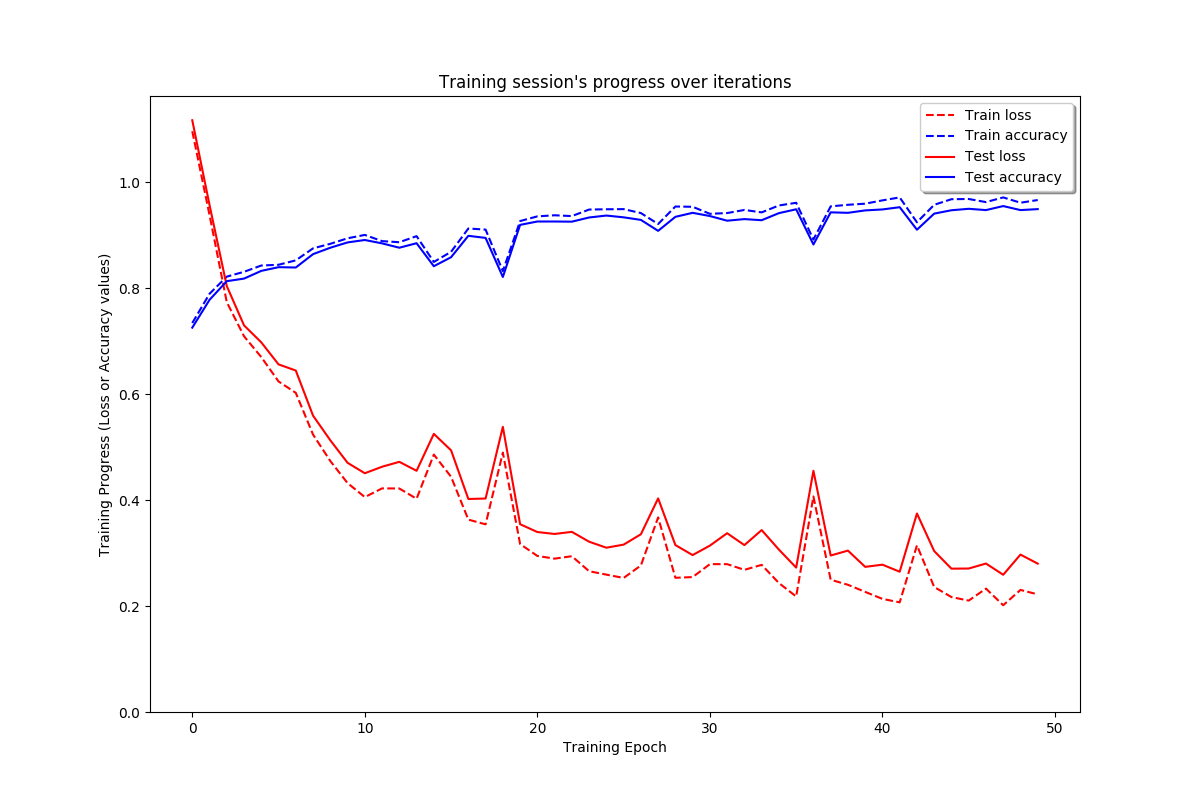
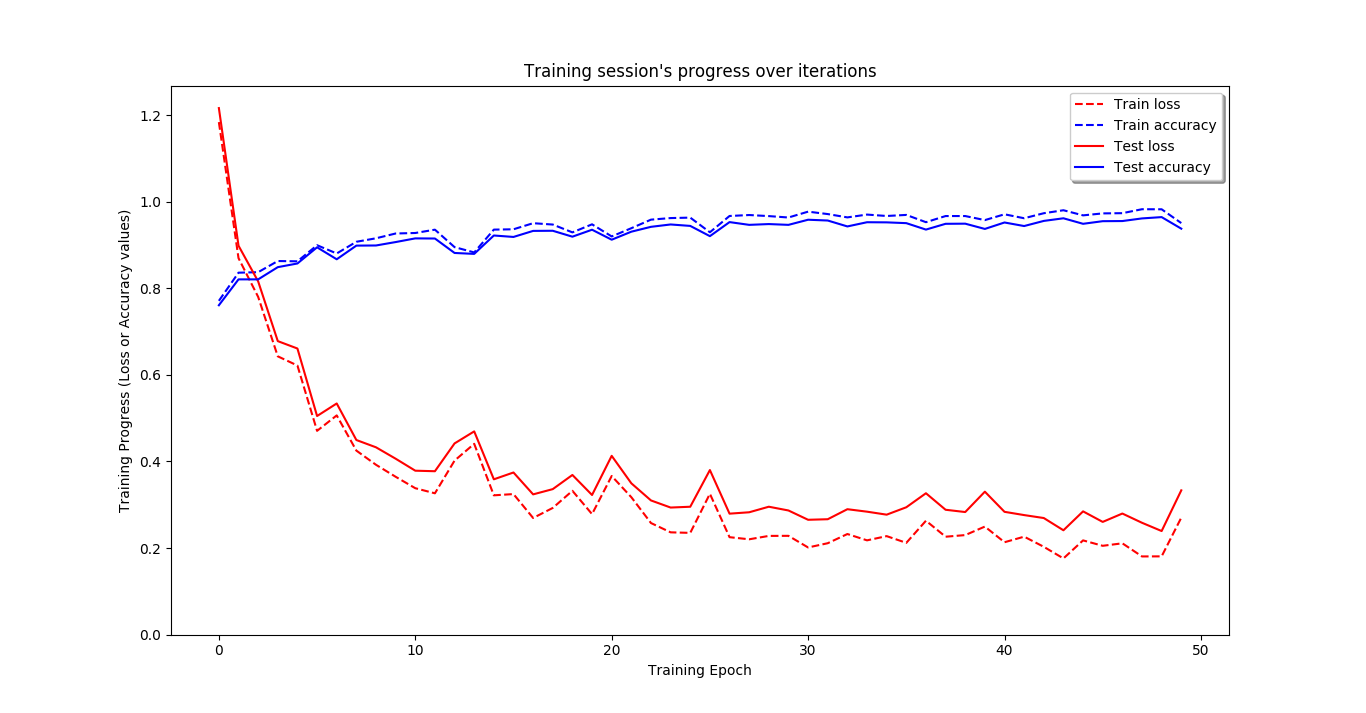
Delete BiLSTM MINST

diff --git a/HAR_Recognition.py b/HAR_Recognition.py
@@ -63,10 +63,12 @@ LEARNING_RATE = 0.0025
 def createBidirLSTM(X):
 
     W = {
+        'hidden': tf.Variable(tf.random_normal([N_FEATURES, 2*N_HIDDEN_NEURONS])),
         'output': tf.Variable(tf.random_normal([2*N_HIDDEN_NEURONS, N_CLASSES]))
     }
 
     b = {
+        'hidden': tf.Variable(tf.random_normal([2*N_HIDDEN_NEURONS], mean=1.0)),
         'output': tf.Variable(tf.Variable(tf.random_normal([N_CLASSES])))
     }
 
@@ -74,10 +76,12 @@ def createBidirLSTM(X):
     X = tf.unstack(X, SEGMENT_TIME_SIZE, 1)
 
     # Stack two LSTM cells on top of each other
-    lstm_fw_cell = tf.contrib.rnn.BasicLSTMCell(N_HIDDEN_NEURONS, forget_bias=1.0)
-    lstm_bw_cell = tf.contrib.rnn.BasicLSTMCell(N_HIDDEN_NEURONS, forget_bias=1.0)
+    lstm_fw_cell_1 = tf.contrib.rnn.BasicLSTMCell(N_HIDDEN_NEURONS, forget_bias=1.0)
+    lstm_fw_cell_2 = tf.contrib.rnn.BasicLSTMCell(N_HIDDEN_NEURONS, forget_bias=1.0)
+    lstm_bw_cell_1 = tf.contrib.rnn.BasicLSTMCell(N_HIDDEN_NEURONS, forget_bias=1.0)
+    lstm_bw_cell_2 = tf.contrib.rnn.BasicLSTMCell(N_HIDDEN_NEURONS, forget_bias=1.0)
 
-    outputs, _, _ = tf.contrib.rnn.static_bidirectional_rnn(lstm_fw_cell, lstm_bw_cell, X, dtype=tf.float32)
+    outputs, _, _ = tf.contrib.rnn.stack_bidirectional_rnn([lstm_fw_cell_1, lstm_fw_cell_2], [lstm_bw_cell_1, lstm_bw_cell_2], X, dtype=tf.float32)
 
     # Get output for the last time step from a "many to one" architecture
     last_output = outputs[-1]
